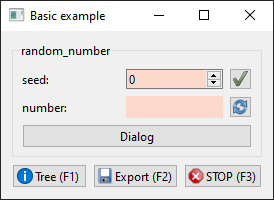
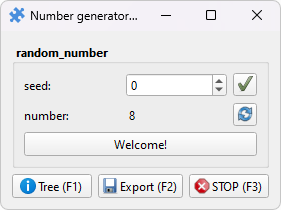
Doc index revamp, typos

diff --git a/docs/source/index.rst b/docs/source/index.rst
@@ -20,11 +20,12 @@ You can install puzzlepiece using pip::
 
 Check out https://pzp-hardware.readthedocs.io for the hardware integrations already available on puzzlepiece!
 
-Example application
-===================
+Feature showcase
+================
 
-Constructing a Puzzle (the GUI window containing your automation) is very easy - you create one, and then you add all the Pieces
-you'd like in a grid layout::
+Bring Pieces together to construct modular applications
+-------------------------------------------------------
+Pieces are single GUI modules that a Puzzle is constructed out of::
 
    import puzzlepiece as pzp
    from puzzlepiece.pieces import random_number, plotter
@@ -37,67 +38,62 @@ you'd like in a grid layout::
 
    # Add Pieces to the Puzzle
    puzzle.add_piece("random", random_number.Piece, row=0, column=0)
-   puzzle.add_piece("plotter", plotter.Piece, 0, 1)
+   puzzle.add_piece("plotter", plotter.Piece, 0, 1, param_defaults={
+      "param": "random:number" # specify a default value for a param
+   })
 
    # Show the Puzzle window and execute the Qt application
    puzzle.show()
    app.exec()
 
-This will give you a GUI window you can interact with directly:
-
 .. image:: basic_puzzle.png
 
-Creating Pieces
-===============
+Create your own Pieces
+----------------------
 
-Pieces are single GUI modules that a Puzzle is constructed out of. It's very easy to make a Piece, you just
-need to think about the methods you want to use to set/get its parameters and perform actions.
-
-Once these methods are defined, you can use puzzlepiece decorators to register them with the Piece,
-which will give you a unified API and GUI components automatically::
+Use decorators on methods that
+set/get parameters and perform actions to rapidly get a standardised UI and API for your automation
+or task::
 
    import puzzlepiece as pzp
    import random
 
    class RandomNumber(pzp.Piece):
       def define_params(self):
-         # Some params have a 'setter' function, which sets a value, like a laser's power.
-         # In that case we make the function (which takes a value) and decorate it with
-         # a param-defining decorator
+         # A 'setter' function sets a value, like a laser's power.
+         # We define it here and give it a param-defining decorator:
          @pzp.param.spinbox(self, "seed", 0)
          def seed(self, value):
             random.seed(value)
 
-         # Some params have a 'getter' function, which returns a value, like a powermeter's reading
-         # In that case we make the function (which returns a value) and decorate it with
-         # a readout-param-defining decorator
+         # A 'getter' function returns a value, like a powermeter's reading
+         # We define it here and give it a param-defining decorator:
          @pzp.param.readout(self, "number")
          def random_number(self):
             return random.randint(0, 10)
 
       def define_actions(self):
          # Sometimes an action is needed, like homing a moving stage.
-         # In that case we make the function (which performs the action) and decorate it with
-         # an action-defining decorator - this gives it a button in the GUI
-         @pzp.action.define(self, "Dialog")
+         # Here we make a function and decorate it with an action-defining decorator
+         @pzp.action.define(self, "Welcome!")
          def print_something(self):
             print("Hello world!")
 
-You can then add this Piece to any Puzzle and display it easily::
+You can then add this Piece to any Puzzle and display it::
 
-   app = pzp.QApp([])
-   puzzle = pzp.Puzzle(app, "Basic example")
+   app = pzp.QApp()
+   puzzle = pzp.Puzzle(name="Number generator")
    puzzle.add_piece("random_number", RandomNumber, 0, 0)
    puzzle.show()
    app.exec()
 
 .. image:: basic_piece.png
 
-Interactions between Pieces
-===========================
+Pieces can interact through the Puzzle
+--------------------------------------
 
-One Puzzle can contain multiple Pieces, and they can interact with each other through the Puzzle.
-For example we can create a Piece that accesses the RandomNumber generator created above::
+One Puzzle can contain multiple Pieces, enabling them to interact with each other.
+For example, we can create a Piece that accesses the RandomNumber generator created above::
 
    class ManyNumbers(pzp.Piece):
       def define_params(self):
@@ -110,18 +106,21 @@ For example we can create a Piece that accesses the RandomNumber generator creat
          def numbers(self):
             values = []
             # Check this Piece's own param to see how many numbers the user wants
-            N = self.params["N"].get_value()
+            N = self["N"].get_value()
+            # Set the seed on the other Piece
+            # by accessing "piece_name:param_name" on self.puzzle
+            self.puzzle["random_number:seed"].set_value(0)
             for i in range(N):
-               # Get param value from the other Piece
-               values.append(puzzle["random_number"].params["number"].get_value())
+               # Get param values from the other Piece
+               values.append(self.puzzle["random_number:number"].get_value())
             return values
 
 Once we add both Pieces to a Puzzle they can interact with each other::
 
-   app = pzp.QApp([])
-   puzzle = pzp.Puzzle(app, "Basic example")
+   app = pzp.QApp()
+   puzzle = pzp.Puzzle(name="Interactions")
    puzzle.add_piece("random_number", RandomNumber, 0, 0)
-   puzzle.add_piece("many_numbers", ManyNumbers, 1, 0)
+   puzzle.add_piece("many_numbers", ManyNumbers, 0, 1)
    puzzle.show()
    app.exec()
 
@@ -131,16 +130,15 @@ Running in Jupyter Lab/Notebook
 ===============================
 
 Running puzzlepiece in an IPython environment gives you the powerful ability to interact with your automation
-application both through the GUI and through code.
-
-Two steps are necessary to enable this. First, the Qt integration has to be enabled by running this magic in any cell::
+application **both through the GUI and through code.** Two steps are necessary to enable this.
+First, the Qt integration has to be enabled by running this magic in any cell::
 
    %gui qt
 
-Second, the Qt app is constructed for you by the IPython kernel, so you don't have to make it or run it yourself. Instead say::
+Second, the Qt application is constructed for you by the IPython kernel, so you don't have to make it or
+execute it yourself. Instead simply say::
 
-   shell = get_ipython()
-   puzzle = pzp.Puzzle(shell.kernel.app, "Basic example")
+   puzzle = pzp.Puzzle(name="Basic example")
    puzzle.add_piece("random_number", RandomNumber, 0, 0)
    puzzle.show()
 
@@ -150,20 +148,25 @@ Now you can interact with the GUI directly, or by running Python code in other c
    for i in range(10):
       values.append(puzzle["random_number"].params["number"].get_value())
 
+**You can use this to create interactive Notebooks for your lab sessions,** where the GUI is used for
+alignment and inspection, and the Notebook records your notes and the measurement code!
+
+.. image:: jupyter.png
+
 Note that there is a fix in ``ipykernel`` 6.29.3 to how exceptions are handled when ``%gui qt`` is turned on,
 you may want to update ``ipykernel`` if your cells are not running after an exception is raised.
 
 Next steps
 ==========
 
-The :ref:`Tutorial` is a great place to start - have a look or run it yourself to learn interactively!
+The :ref:`Tutorial` is a great place to start - have a look or **run it yourself to learn interactively!**
 
-Some more detailed examples are located on GitHub: `how to construct an app <https://github.com/jdranczewski/puzzlepiece/tree/main/examples>`_
-or `how to code a Piece <https://github.com/jdranczewski/puzzlepiece/blob/main/puzzlepiece/pieces/random_number.py>`_. Examples of more complex
-Pieces `are also available <https://github.com/jdranczewski/puzzlepiece/tree/main/puzzlepiece/pieces>`_.
-The full source code is available at https://github.com/jdranczewski/puzzlepiece.
+Some example Pieces are `available on GitHub <https://github.com/jdranczewski/puzzlepiece/tree/main/puzzlepiece/pieces>`_,
+and you can have a look at https://github.com/jdranczewski/pzp-hardware/ to see how to develop hardware
+integrations. The full source code of this library is available at https://github.com/jdranczewski/puzzlepiece.
 
-This documentation is meant as a good way to familiarise yourself with the library too - have a look at the table of contents below.
+This documentation is reasonably extensive, and meant as a good way to familiarise yourself with puzzlepiece
+too - have a look at the API section of the table of contents below.
 
 .. toctree::
    :maxdepth: 2

diff --git a/docs/source/python_lab.rst b/docs/source/python_lab.rst
@@ -93,7 +93,7 @@ to find. **Create this folder now.**
     cd "C:/path/to/working/folder"
 
 * Using the Python installation path, create a virtual environment with
-  a name of your choice (I usually go for “venv”)::
+  a name of your choice (I usually go for ``venv``)::
 
     <installation path>/python.exe -m venv name_of_your_venv
 
@@ -154,7 +154,7 @@ the environment.**
 
     venv
 
-  And press enter.
+  and press enter to activate the environment.
 
 Select environment in VSCode
 ----------------------------
@@ -191,15 +191,15 @@ from VS Code or from the terminal::
   python automation.py
 
 You may want to let your users run GUIs more easily though, and a good
-way to do that is to set the environment as the default way to open
-Python files. If you would rather not apply this to *all* Python files,
-you can also make up a custom text file extension (like ``.pzp``) and
+way to do that is to **set the environment as the default way to open
+Python files.** If you would rather not apply this to *all* Python files,
+you can also make up a custom text file extension (like ``.pypzp``) and
 set the default application for that.
 
 * In Windows Explorer, select "View -> Show -> File name extensions"
   to make it clear what kind of files you're working with, and make it
   easy to change the extension to whatever you want.
-* Right-click a ``.py`` (or ``.pzp``, or any other extension you want
+* Right-click a ``.py`` (or ``.pypzp``, or any other extension you want
   to open with the virtual environment's Python) file. Select "Open
   with -> Choose another app".
 * Scroll all the way down to "Choose an app on your PC" in the dialog
@@ -268,7 +268,7 @@ files in this folder will be respected when you import the package.
 You can follow similar steps to install and edit packages from GitHub. I recommend doing this
 with `pzp-hardware <https://pzp-hardware.readthedocs.io>`__, so you can add your own hardware
 integrations in the same spot, track your changes with git , and then
-`open pull requests <https://github.com/jdranczewski/pzp-hardware/pulls>`__` to have your integration
+`open pull requests <https://github.com/jdranczewski/pzp-hardware/pulls>`__ to have your integration
 merged into the main package! The steps are similar to the above::
 
   git clone https://github.com/jdranczewski/pzp-hardware.git
@@ -378,7 +378,7 @@ Tips and tricks
   should use **access tokens** rather than log into your personal account.
 
   * To create a token go to "Settings -> Developer Settings -> Personal Access Tokens -> Fine-grained
-    tokens" on GitHub (https://github.com/settings/personal-access-tokens).Under “Repository access”
+    tokens" on GitHub (https://github.com/settings/personal-access-tokens). Under “Repository access”
     select the repositories you would like the computer to access. Under “Repository permissions” give
     read and write access to Contents.
   * Configure git on the computer to sign the commits with a name unique to it, so you can trace

diff --git a/README.md b/README.md
@@ -1,9 +1,9 @@
-![Puzzlepiece](docs/source/puzzlepiece.svg)
+![Puzzlepiece](https://raw.githubusercontent.com/jdranczewski/puzzlepiece/refs/heads/main/docs/source/puzzlepiece.svg)
 
 **Puzzlepiece is a GUI-forward Python framework for automating experimental setups.** It focuses on abstracting communication with a piece of hardware into **standard inputs, outputs, and actions**. It then automatically **generates GUI components** for them, minimising the need for boilerplate code. Puzzlepiece allows the user to bring diverse controls into a single, consolidated application, and automate their interaction or experiment using a unified API, either by making custom Pieces, or through a built-in script language,
 or with Interactive Python.
 
-See the documentation at https://puzzlepiece.readthedocs.io/ for examples of how to get started.
+See the documentation at https://puzzlepiece.readthedocs.io/ for features and examples of how to get started.
 
 You can install puzzlepiece using pip:
 ```
